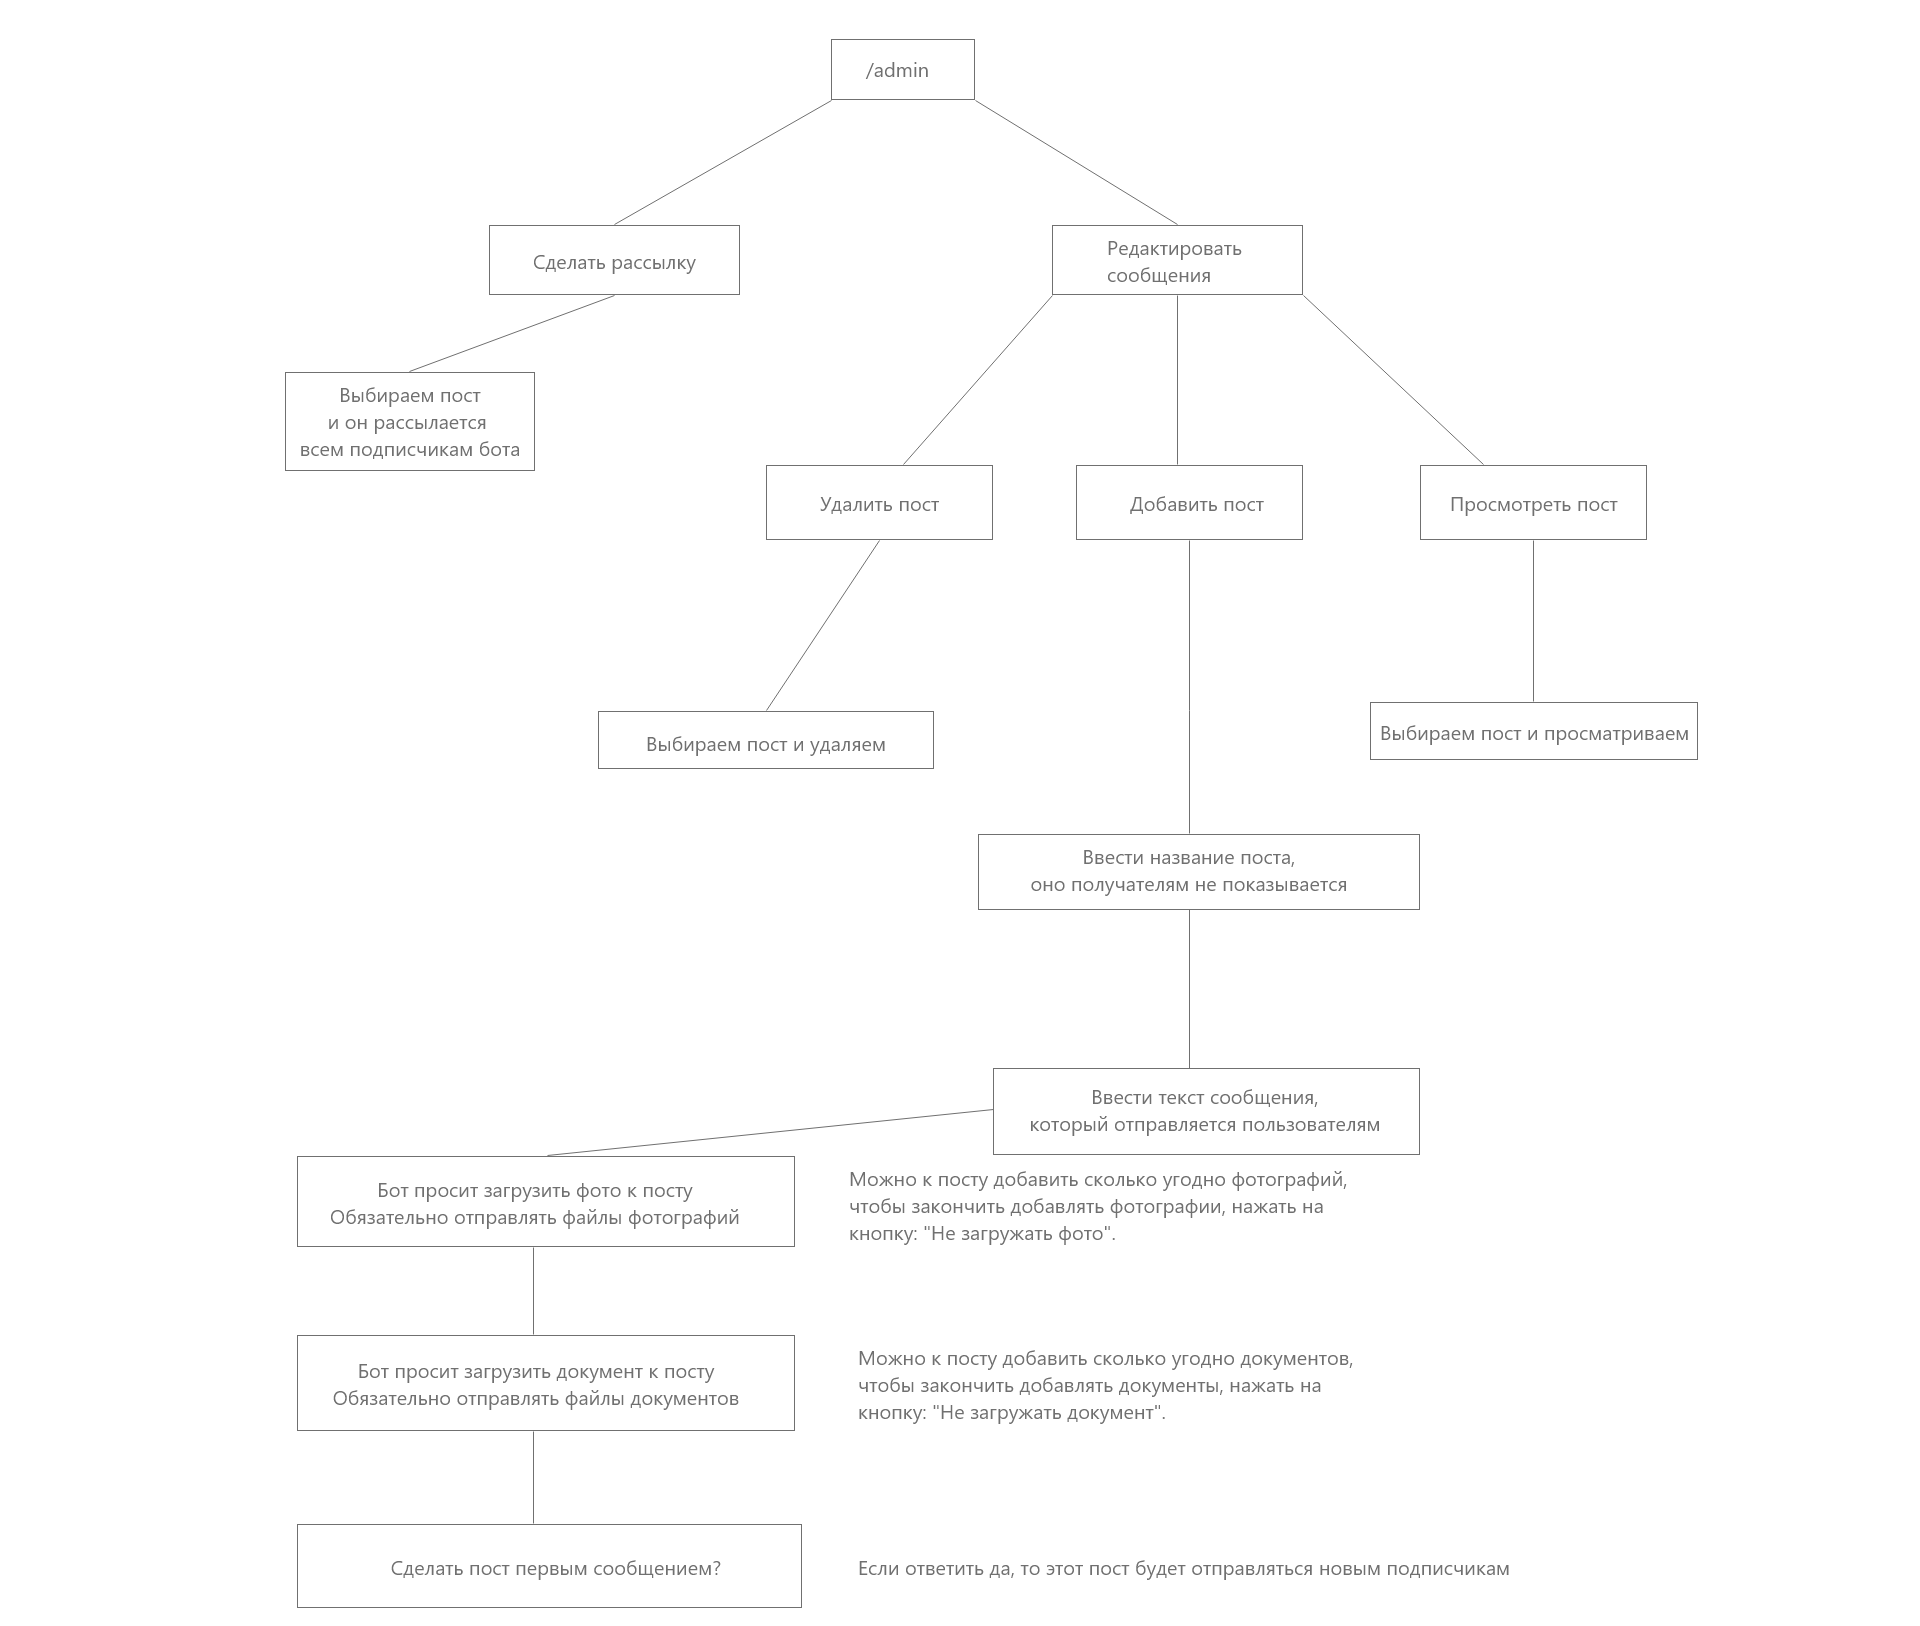
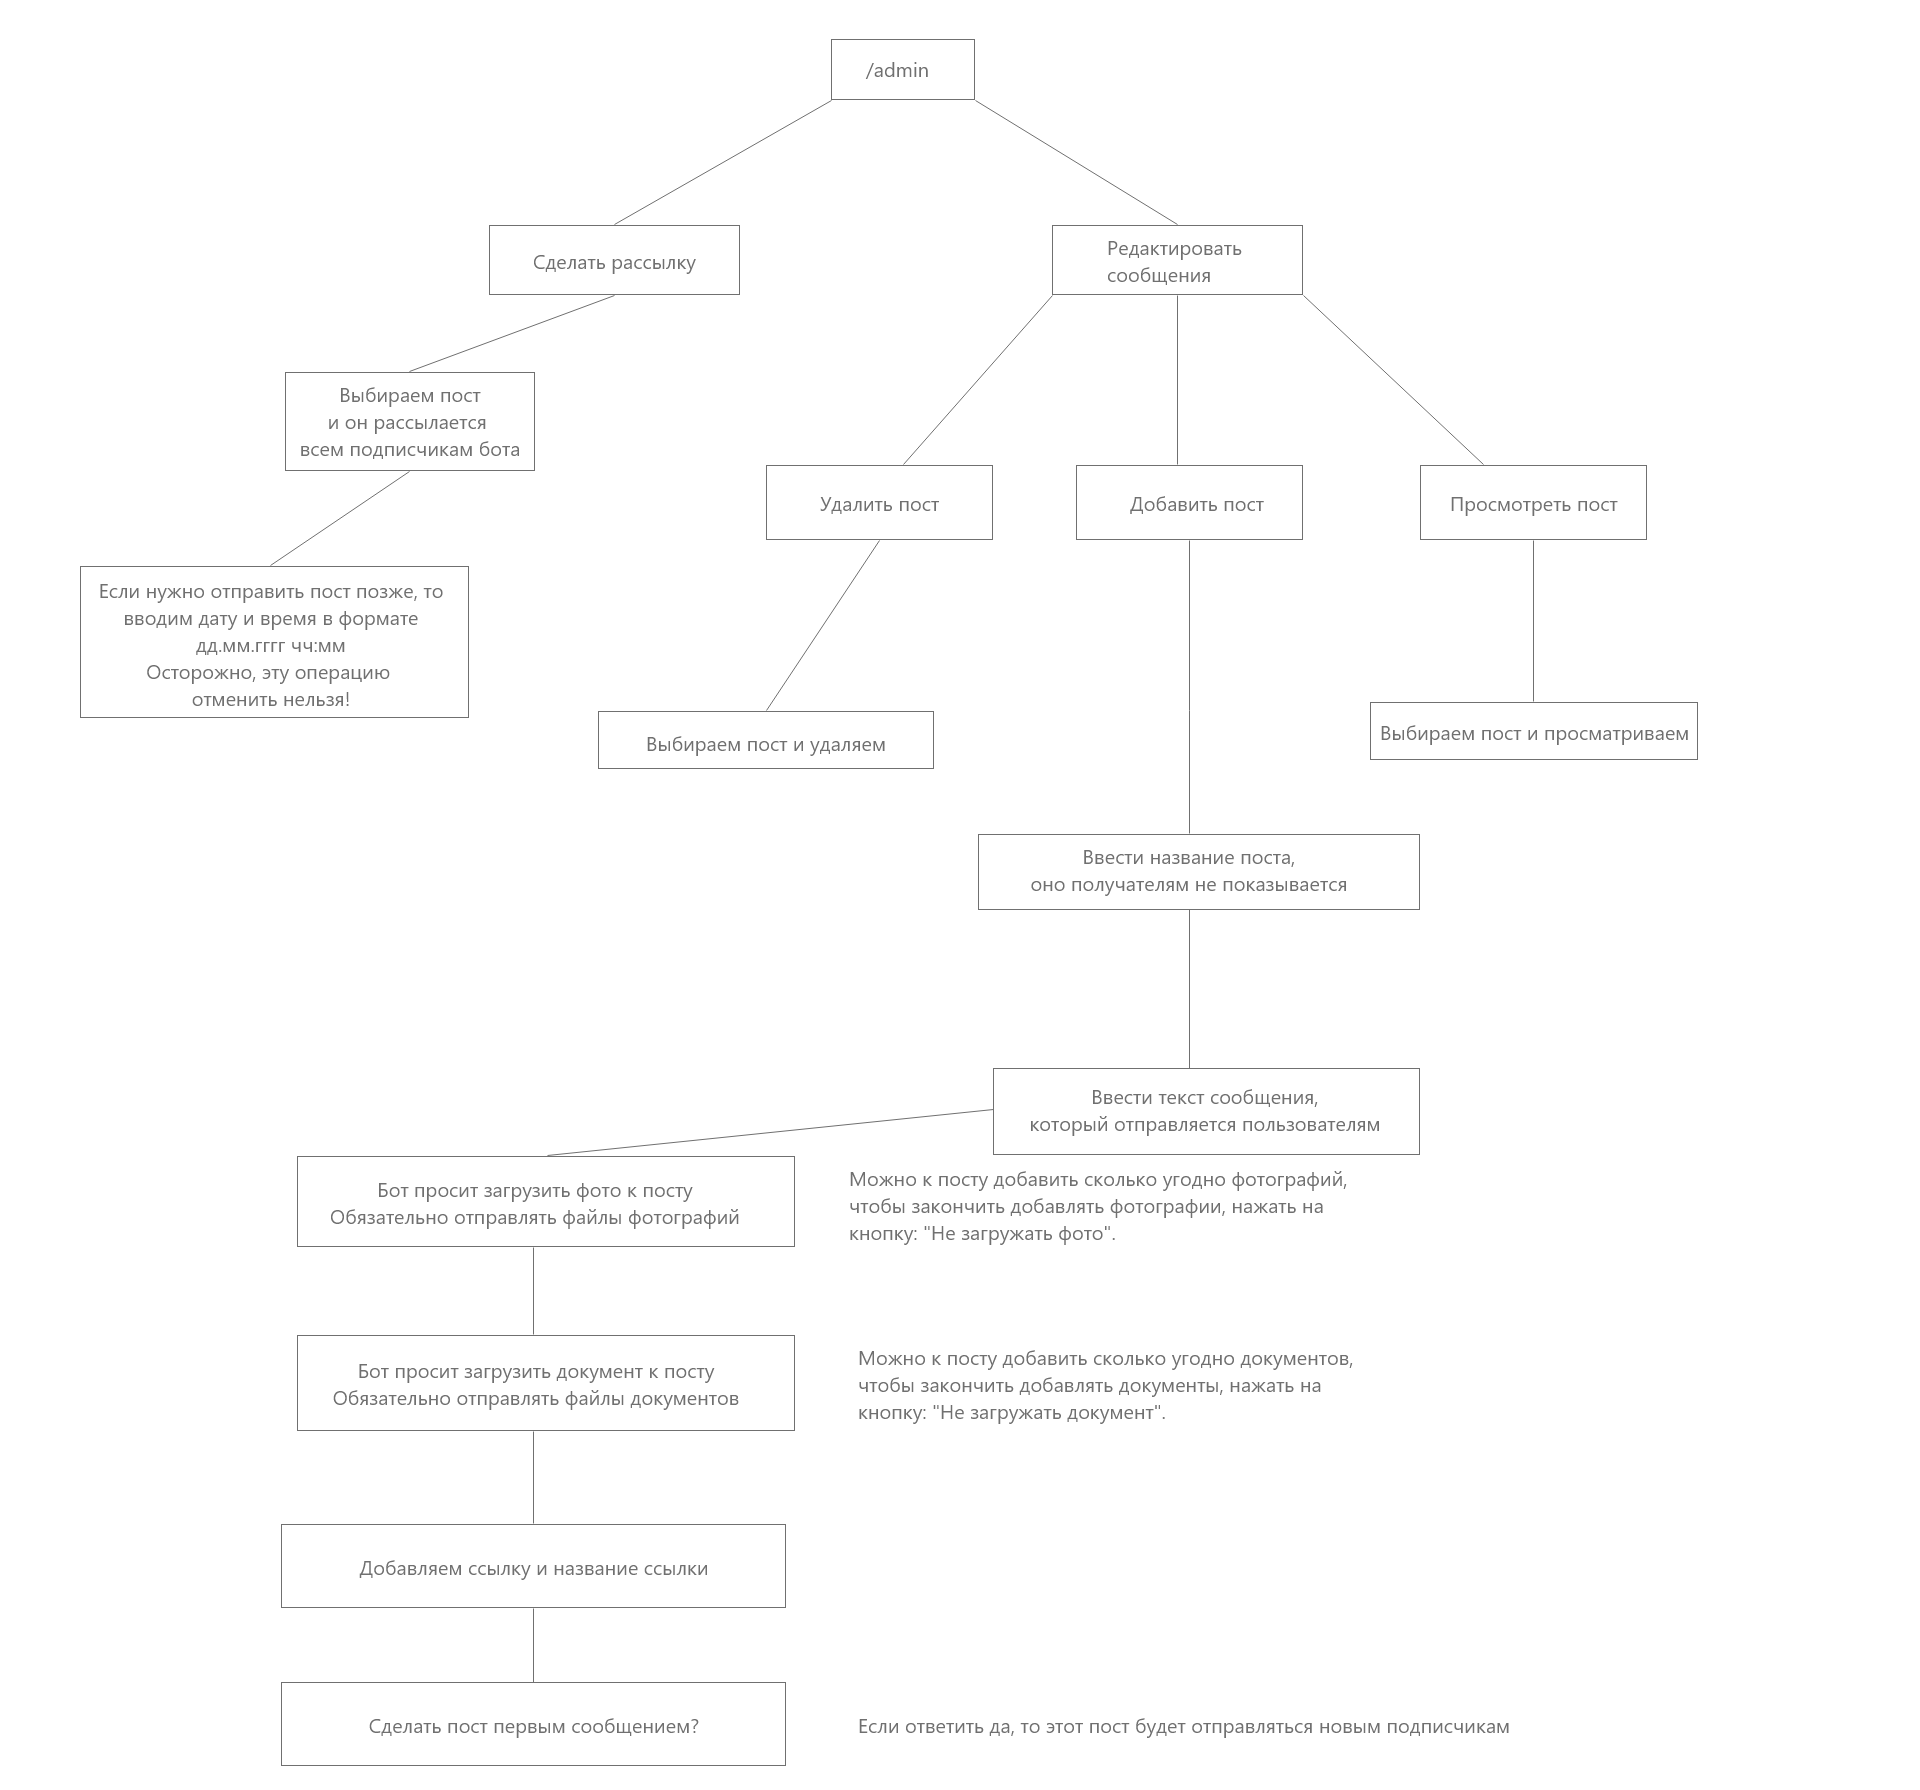
update 3

diff --git a/app/handlers/mailing.py b/app/handlers/mailing.py
@@ -64,7 +64,7 @@ async def choose_post(message: types.Message, state: FSMContext):
 
         keyboard = types.ReplyKeyboardMarkup(resize_keyboard=True)
         keyboard.add("Отправить сейчас")
-        await message.answer("Вы можете выбрать дату и время отправки сообщения пользователям\nили отправить данное сообщение прямо сейчас.\nФормат для ввода даты и времени: дд.мм.гггг чч:мм", reply_markup=keyboard)
+        await message.answer("Вы можете выбрать дату и время отправки сообщения\nпользователям или отправить данное сообщение прямо сейчас.\nФормат для ввода даты и времени: дд.мм.гггг чч:мм", reply_markup=keyboard)
     else:
         await message.answer("Выберите пост для рассылки")
 
@@ -75,7 +75,7 @@ async def do_mailing(message: types.Message, state: FSMContext):
     if message.text.strip() == "":
         keyboard = types.ReplyKeyboardMarkup(resize_keyboard=True)
         keyboard.add("Отправить сейчас")
-        await message.answer("Вы можете выбрать дату и время отправки сообщения пользователям\nили отправить данное сообщение прямо сейчас.\nФормат для ввода даты и времени: дд.мм.гггг чч:мм", reply_markup=keyboard)
+        await message.answer("Вы можете выбрать дату и время отправки сообщения\nпользователям или отправить данное сообщение прямо сейчас.\nФормат для ввода даты и времени: дд.мм.гггг чч:мм", reply_markup=keyboard)
         return
 
     if message.text.strip().lower() == "Отправить сейчас".lower():
@@ -105,14 +105,14 @@ async def do_mailing(message: types.Message, state: FSMContext):
             keyboard = types.ReplyKeyboardMarkup(resize_keyboard=True)
             keyboard.add("Отправить сейчас")
             await message.answer("Неправльный ввод даты или времени")
-            await message.answer("Вы можете выбрать дату и время отправки сообщения пользователям\nили отправить данное сообщение прямо сейчас.\nФормат для ввода даты и времени: дд.мм.гггг чч:мм", reply_markup=keyboard)
+            await message.answer("Вы можете выбрать дату и время отправки сообщения\nпользователям или отправить данное сообщение прямо сейчас.\nФормат для ввода даты и времени: дд.мм.гггг чч:мм", reply_markup=keyboard)
             return
 
     except Exception:
         keyboard = types.ReplyKeyboardMarkup(resize_keyboard=True)
         keyboard.add("Отправить сейчас")
         await message.answer("Неправльный ввод даты или времени")
-        await message.answer("Вы можете выбрать дату и время отправки сообщения пользователям\nили отправить данное сообщение прямо сейчас.\nФормат для ввода даты и времени: дд.мм.гггг мм:чч", reply_markup=keyboard)
+        await message.answer("Вы можете выбрать дату и время отправки сообщения\nпользователям или отправить данное сообщение прямо сейчас.\nФормат для ввода даты и времени: дд.мм.гггг мм:чч", reply_markup=keyboard)
         return
 
 

diff --git a/app/handlers/edit_posts.py b/app/handlers/edit_posts.py
@@ -94,8 +94,10 @@ async def delete_post(message: types.Message, state: FSMContext):
             await message.answer("Вы не можете удалить последний пост.\nДля перехода к началу используйте команду /admin", reply_markup=types.ReplyKeyboardRemove())
             return
         else:
-            post = posts[len(posts) - int(number)]
-            post.first_post = True
+            if posts[int(number) - 1].first_post:
+                post = posts[len(posts) - int(number)]
+                post.first_post = True
+
             db_sess.delete(posts[int(number) - 1])
             db_sess.commit()
 
@@ -145,17 +147,16 @@ async def view_post(message: types.Message, state: FSMContext):
         posts.sort(key=lambda x: x.post_id)
         post = posts[int(number) - 1]
 
-        atts = [x.att_telegram_id for x in post.attachments]
-
         keyboard = types.ReplyKeyboardRemove()
 
-        if post.post_link != "":
+        if post.post_link:
             keyboard = types.InlineKeyboardMarkup(row_width=1)
             button = types.InlineKeyboardButton(text=post.label_link, url=post.post_link)
             keyboard.add(button)
 
         await message.answer(post.post_text, reply_markup=keyboard)
 
+        atts = [x.att_telegram_id for x in post.attachments]
         for att in atts:
             try:
                 await message.answer_photo(att)

diff --git a/main.py b/main.py
@@ -36,7 +36,7 @@ async def save_subscribers():
 
 
 async def subscribers_scheduler():
-    aioschedule.every().day.at("14:43").do(save_subscribers)
+    aioschedule.every().day.at("16:30").do(save_subscribers)
     while True:
         await aioschedule.run_pending()
         await asyncio.sleep(1)
